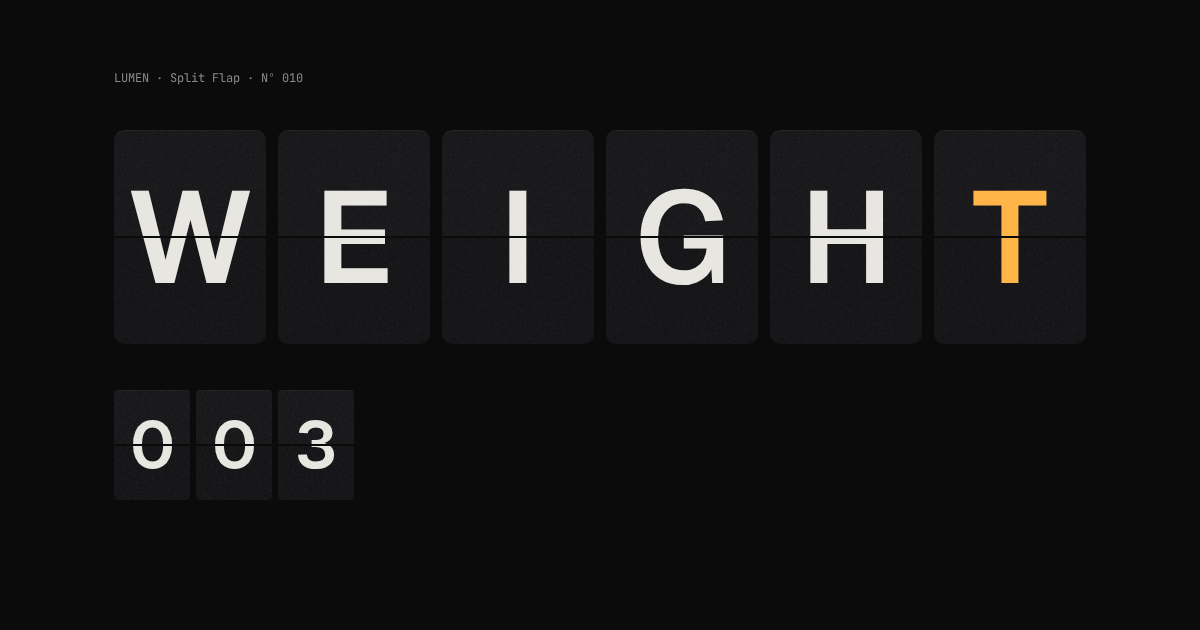
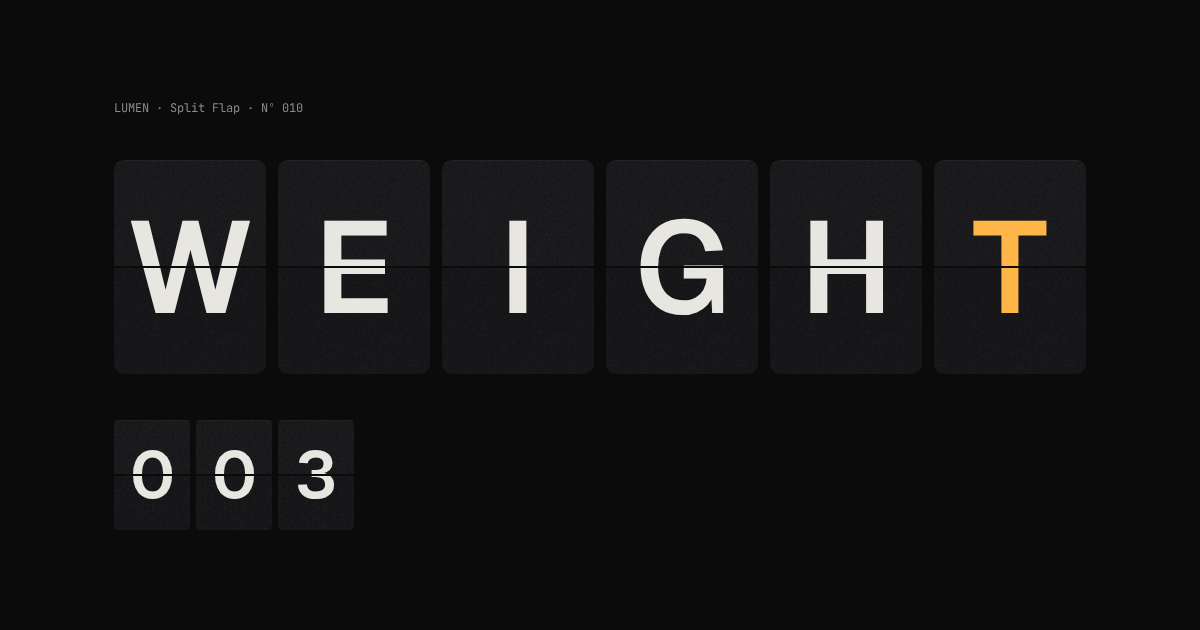
fix: center the 010 board block in its stage

diff --git a/pieces/010-split-flap/android/SplitFlap.kt b/pieces/010-split-flap/android/SplitFlap.kt
@@ -19,6 +19,8 @@ import androidx.compose.foundation.background
 import androidx.compose.foundation.layout.Box
 import androidx.compose.foundation.layout.BoxWithConstraints
 import androidx.compose.foundation.layout.fillMaxSize
+import androidx.compose.foundation.layout.height
+import androidx.compose.foundation.layout.wrapContentHeight
 import androidx.compose.foundation.layout.offset
 import androidx.compose.foundation.layout.size
 import androidx.compose.material3.Text
@@ -29,6 +31,7 @@ import androidx.compose.runtime.mutableLongStateOf
 import androidx.compose.runtime.remember
 import androidx.compose.runtime.setValue
 import androidx.compose.runtime.withFrameMillis
+import androidx.compose.ui.Alignment
 import androidx.compose.ui.Modifier
 import androidx.compose.ui.geometry.Offset
 import androidx.compose.ui.geometry.Size
@@ -316,8 +319,11 @@ class BoardGeo(widthPx: Float, heightPx: Float, density: Float) {
     val big = flap(wDp * density)
     val small = flap(SF.smallR * wDp * density)
     val rowGap = even(SF.rowGapR * wDp * density)
+    val labelH = even(12f * density)
+    // one block: label line, gap, big row, gap, number row
+    val rowsTop = labelH + rowGap
     val boardW = SF.cols * big.w + (SF.cols - 1) * big.gap
-    val boardH = big.h + rowGap + small.h
+    val boardH = rowsTop + big.h + rowGap + small.h
     val left = even((widthPx - boardW) / 2)
     val top = even((if (heightPx > widthPx) SF.portraitCenter else 0.5f) * heightPx - boardH / 2)
 }
@@ -377,7 +383,7 @@ fun SplitFlap(modifier: Modifier = Modifier) {
                                 PointerEventType.Move, PointerEventType.Enter -> {
                                     if (ch.type != PointerType.Mouse) continue
                                     val x = ch.position.x - geo.left
-                                    val y = ch.position.y - geo.top
+                                    val y = ch.position.y - geo.top - geo.rowsTop
                                     val pitch = geo.big.w + geo.big.gap
                                     val col = floor(x / pitch).toInt()
                                     val inside = y in 0f..geo.big.h && x >= 0 && x - col * pitch <= geo.big.w
@@ -396,15 +402,15 @@ fun SplitFlap(modifier: Modifier = Modifier) {
                 Text(
                     SF.label,
                     style = TextStyle(fontFamily = mono, fontWeight = FontWeight.Normal, fontSize = 12.sp, color = SF.dim, letterSpacing = 0.sp),
-                    modifier = Modifier.offset { IntOffset(0, -(geo.rowGap + 12 * density.density).roundToInt()) }
+                    modifier = Modifier.height(with(density) { geo.labelH.toDp() }).wrapContentHeight(Alignment.CenterVertically)
                 )
                 model.letters.forEachIndexed { i, cell ->
                     FlapCellView(model.frame(cell), geo.big, geist, grainBrush,
-                        Modifier.offset { IntOffset((i * (geo.big.w + geo.big.gap)).roundToInt(), 0) })
+                        Modifier.offset { IntOffset((i * (geo.big.w + geo.big.gap)).roundToInt(), geo.rowsTop.roundToInt()) })
                 }
                 model.nums.forEachIndexed { i, cell ->
                     FlapCellView(model.frame(cell), geo.small, geist, grainBrush,
-                        Modifier.offset { IntOffset((i * (geo.small.w + geo.small.gap)).roundToInt(), (geo.big.h + geo.rowGap).roundToInt()) })
+                        Modifier.offset { IntOffset((i * (geo.small.w + geo.small.gap)).roundToInt(), (geo.rowsTop + geo.big.h + geo.rowGap).roundToInt()) })
                 }
             }
         }

diff --git a/pieces/010-split-flap/split-flap.js b/pieces/010-split-flap/split-flap.js
@@ -251,18 +251,28 @@ export function mountSplitFlap(root, opts = {}) {
       r: evCss(P.radiusR * sw), f: evCss(P.fontR * sw)
     };
     const rowGap = evCss(P.rowGapR * w);
+    const labelH = evCss(P.labelSize);
     const boardW = P.cols * big.w + (P.cols - 1) * big.gap;
-    const boardH = big.h + rowGap + small.h;
+    // the block is one unit: label line, gap, big row, gap, number row
+    const rowsTop = labelH + rowGap;
+    const boardH = rowsTop + big.h + rowGap + small.h;
     const cy = H > W ? P.portraitCenter : 0.5;
-    const left = even((W * dpr - boardW) / 2);
-    const top = even(cy * H * dpr - boardH / 2);
-    geo = { dpr, big, small, rowGap, boardW, boardH, left, top, W, H };
+    geo = { dpr, big, small, rowGap, labelH, boardW, boardH, cy, W, H };
 
     const px = (d) => `${d / dpr}px`;
-    board.style.left = px(left);
-    board.style.top = px(top);
+    // Centered by CSS against the stage itself, so a stale size can never pin
+    // it to a corner; then nudged so its origin lands on an even device px.
     board.style.width = px(boardW);
     board.style.height = px(boardH);
+    board.style.left = '50%';
+    board.style.top = `${cy * 100}%`;
+    board.style.transform = `translate(${px(-boardW / 2)}, ${px(-boardH / 2)})`;
+    const r = board.getBoundingClientRect();
+    const snap = (v) => (Math.round((v * dpr) / 2) * 2 - v * dpr) / dpr;
+    const sx = snap(r.left), sy = snap(r.top);
+    board.style.transform = `translate(${-boardW / 2 / dpr + sx}px, ${-boardH / 2 / dpr + sy}px)`;
+    const rr = board.getBoundingClientRect();
+    geo.left = rr.left; geo.top = rr.top;
 
     const place = (cell, s, x, y) => {
       const n = cell.node.style;
@@ -289,10 +299,11 @@ export function mountSplitFlap(root, opts = {}) {
       const shift = (0.855 - P.capHalf - 0.5) * s.f; // = 0 for Geist
       if (shift) for (const part of [cell.sTop, cell.fTop, cell.sBot, cell.fBot]) part.g.style.transform = part.g2.style.transform = `translateY(${px(shift)})`;
     };
-    letters.forEach((c, i) => place(c, big, i * (big.w + big.gap), 0));
-    nums.forEach((c, i) => place(c, small, i * (small.w + small.gap), big.h + rowGap));
+    letters.forEach((c, i) => place(c, big, i * (big.w + big.gap), rowsTop));
+    nums.forEach((c, i) => place(c, small, i * (small.w + small.gap), rowsTop + big.h + rowGap));
     label.style.left = '0px';
-    label.style.top = px(-rowGap - evCss(P.labelSize));
+    label.style.top = '0px';
+    label.style.height = label.style.lineHeight = px(labelH);
   }
 
   // ---------- scheduling ----------
@@ -478,6 +489,15 @@ export function mountSplitFlap(root, opts = {}) {
   listen(fineQ, onFine);
   const ro = new ResizeObserver(() => layout());
   ro.observe(root);
+  const onWin = () => layout();
+  window.addEventListener('resize', onWin);
+  let dprQ = null;
+  const onDpr = () => { if (dprQ) unlisten(dprQ, onDpr); watchDpr(); layout(); };
+  function watchDpr() {
+    dprQ = window.matchMedia(`(resolution: ${window.devicePixelRatio || 1}dppx)`);
+    listen(dprQ, onDpr);
+  }
+  watchDpr();
   layout();
 
   const fontsReady = (opts.fonts || Promise.all([
@@ -509,6 +529,8 @@ export function mountSplitFlap(root, opts = {}) {
       unlisten(reducedQ, onReduced);
       unlisten(fineQ, onFine);
       ro.disconnect();
+      window.removeEventListener('resize', onWin);
+      if (dprQ) unlisten(dprQ, onDpr);
       stage.remove();
       removeStyles();
     }

diff --git a/pieces/010-split-flap/swiftui/SplitFlapView.swift b/pieces/010-split-flap/swiftui/SplitFlapView.swift
@@ -301,7 +301,7 @@ struct FlapSize {
 
 struct BoardGeo {
     let big: FlapSize, small: FlapSize
-    let rowGap, boardW, boardH, left, top: CGFloat
+    let rowGap, labelH, rowsTop, boardW, boardH, left, top: CGFloat
 
     init(size: CGSize, scale: CGFloat) {
         let even: (CGFloat) -> CGFloat = { (($0 * scale) / 2).rounded() * 2 / scale }
@@ -319,8 +319,11 @@ struct BoardGeo {
         big = flap(w)
         small = flap(SF.smallR * w)
         rowGap = even(SF.rowGapR * w)
+        labelH = even(12)
+        // one block: label line, gap, big row, gap, number row
+        rowsTop = labelH + rowGap
         boardW = CGFloat(SF.cols) * big.w + CGFloat(SF.cols - 1) * big.gap
-        boardH = big.h + rowGap + small.h
+        boardH = rowsTop + big.h + rowGap + small.h
         let cy = size.height > size.width ? SF.portraitCenter : 0.5
         left = even((size.width - boardW) / 2)
         top = even(cy * size.height - boardH / 2)
@@ -354,7 +357,7 @@ public struct SplitFlapView: View {
             .onContinuousHover(coordinateSpace: .local) { phase in
                 // Fires for an iPad or Mac pointer only.
                 guard case .active(let p) = phase else { model.lastHoverCol = -1; return }
-                let x = p.x - geo.left, y = p.y - geo.top
+                let x = p.x - geo.left, y = p.y - geo.top - geo.rowsTop
                 guard y >= 0, y <= geo.big.h else { model.lastHoverCol = -1; return }
                 let col = Int(floor(x / (geo.big.w + geo.big.gap)))
                 let inside = x >= 0 && x - CGFloat(col) * (geo.big.w + geo.big.gap) <= geo.big.w
@@ -376,14 +379,14 @@ public struct SplitFlapView: View {
                 .font(.custom("JetBrainsMono-Regular", size: 12))
                 .foregroundStyle(SF.dim)
                 .fixedSize()
-                .offset(y: -geo.rowGap - 12)
+                .frame(height: geo.labelH, alignment: .leading)
             ForEach(0..<SF.cols, id: \.self) { i in
                 FlapCellView(frame: model.frame(model.letters[i]), size: geo.big, scale: scale)
-                    .offset(x: CGFloat(i) * (geo.big.w + geo.big.gap))
+                    .offset(x: CGFloat(i) * (geo.big.w + geo.big.gap), y: geo.rowsTop)
             }
             ForEach(0..<3, id: \.self) { i in
                 FlapCellView(frame: model.frame(model.nums[i]), size: geo.small, scale: scale)
-                    .offset(x: CGFloat(i) * (geo.small.w + geo.small.gap), y: geo.big.h + geo.rowGap)
+                    .offset(x: CGFloat(i) * (geo.small.w + geo.small.gap), y: geo.rowsTop + geo.big.h + geo.rowGap)
             }
         }
     }
